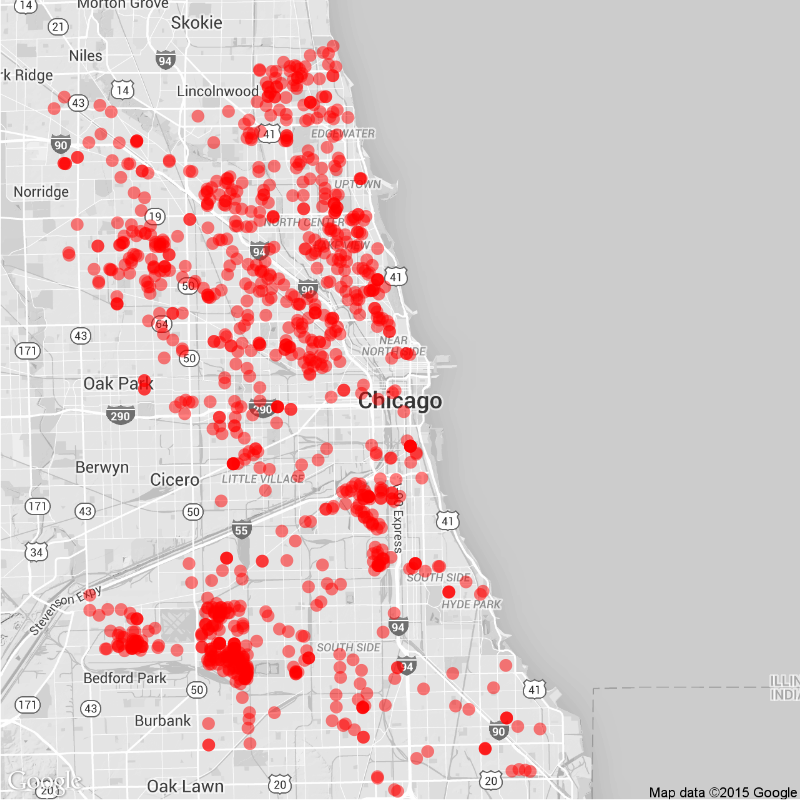
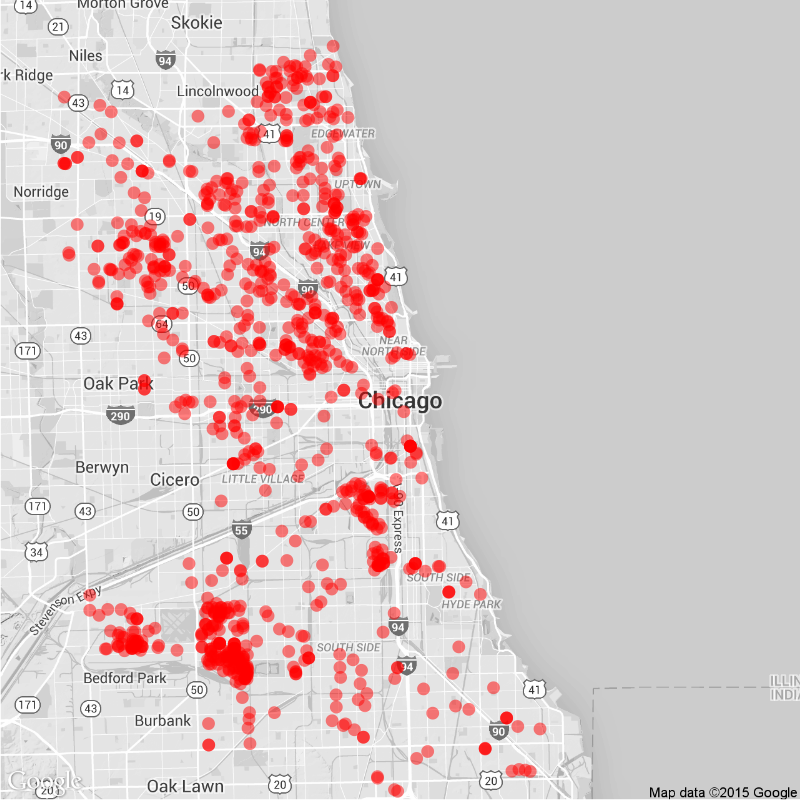
Daily Maps

diff --git a/daily.md b/daily.md
@@ -15,22 +15,22 @@ tags: Chicago NYC weekly daily rats
 
 ### Daily
 
-Yesterday (July 03), there were 71 calls to Chicago's 311 line about rats.
+Yesterday (July 04), there were 32 calls to Chicago's 311 line about rats.
 ![Chicago rat calls to 311 weekly map]({{ site.cityimages }}/daily/Chicago_Rat_Map_Daily.png)
 
 ### Weekly
-Between June 27 and July 03, there were 1018 calls to Chicago's 311 line about rats. The average number of weekly calls for this time of year is 863.
+Between June 28 and July 04, there were 1009 calls to Chicago's 311 line about rats. The average number of weekly calls for this time of year is 863.
 ![Chicago rat calls to 311 weekly map]({{ site.cityimages }}/daily/Chicago_Rat_Map_Weekly.png)
 ***
 # New York City <a id="nyc"><a>
 
 ### Daily
 
-Yesterday (July 03), there were 0 calls to New York City's 311 line about rats.
+Yesterday (July 04), there were 0 calls to New York City's 311 line about rats.
 ![NYC rat calls to 311 weekly map]({{ site.cityimages }}/daily/NYC_Rat_Map_Daily.png)
 
 ### Weekly
-Between June 27 and July 03, there were 0 calls to New York City's 311 line about rats. The average number of weekly calls for this time of year is 280.
+Between June 28 and July 04, there were 0 calls to New York City's 311 line about rats. The average number of weekly calls for this time of year is 280.
 ![NYC rat calls to 311 weekly map]({{ site.cityimages }}/daily/NYC_Rat_Map_Weekly.png)
 
 Each red dot represents one call about a rat seen in that location. The dots are transparent, so multiple calls from one location will be seen as a solid dot. The usual caveats apply: more calls do not necessarily mean that there are more rats in that location than other parts of the city. A cluster of dots could indicate that one resident is unusually vocal about rodents in his or her neighborhood. Also, more densely populated neighborhoods tend to make more calls to 311.
